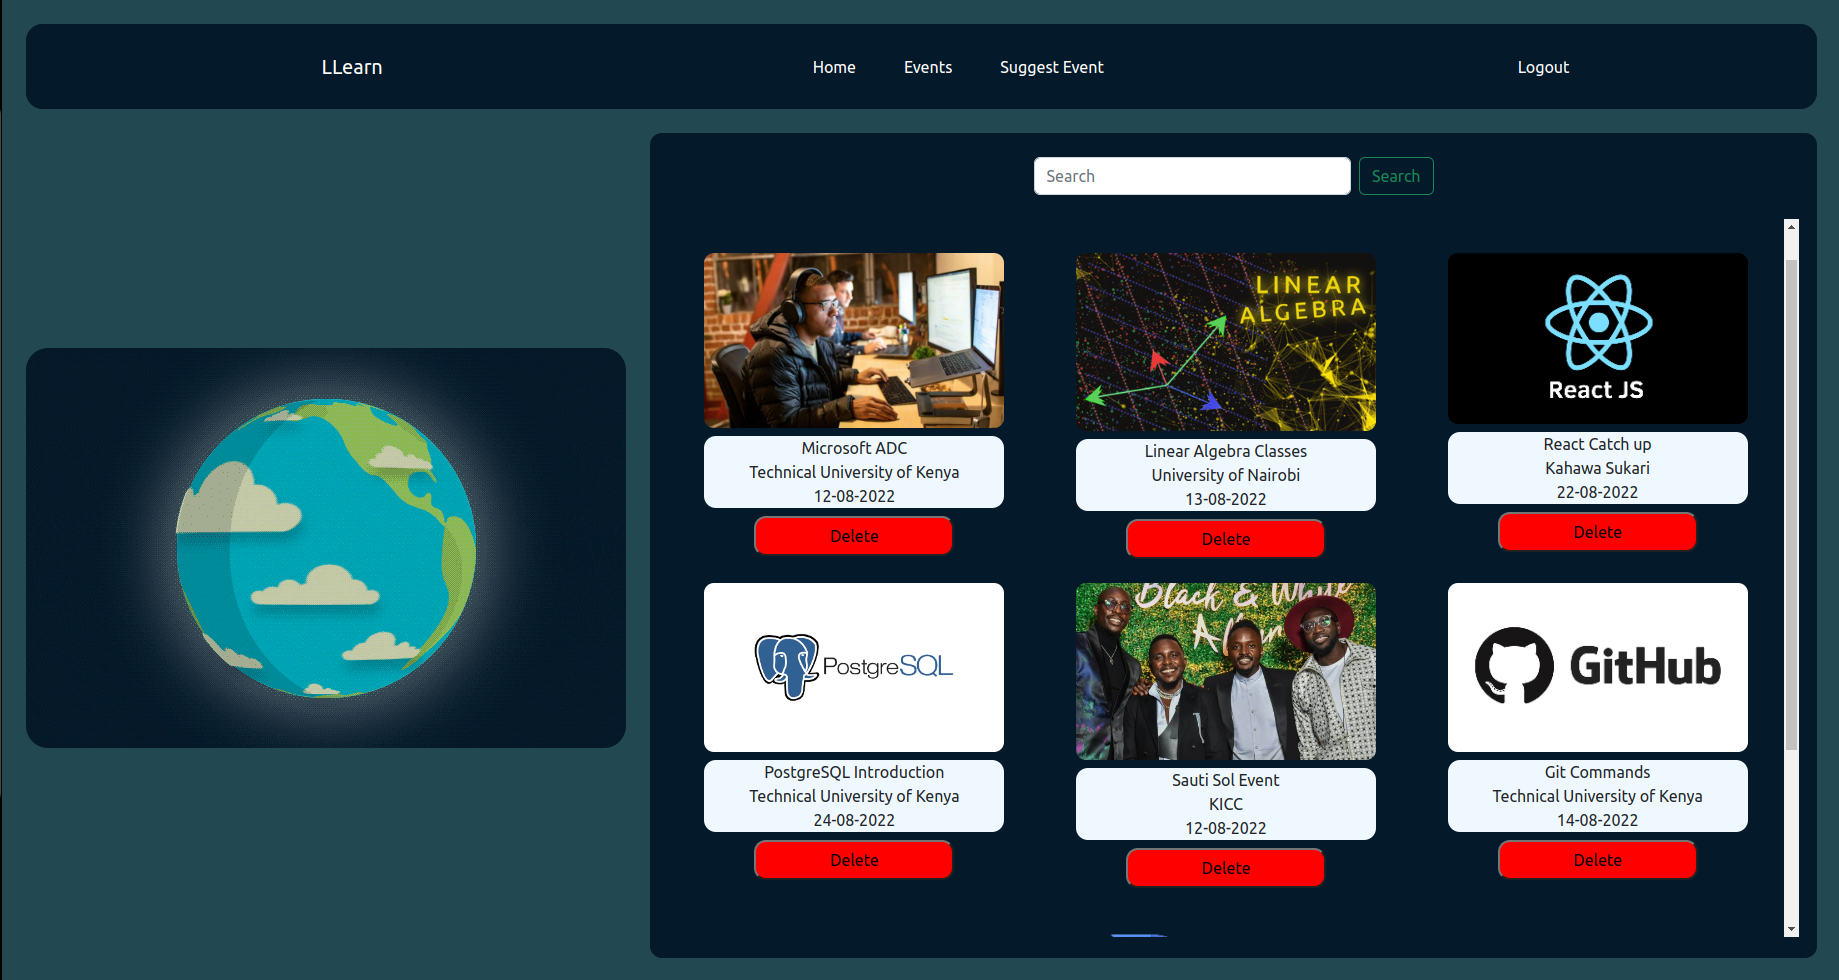
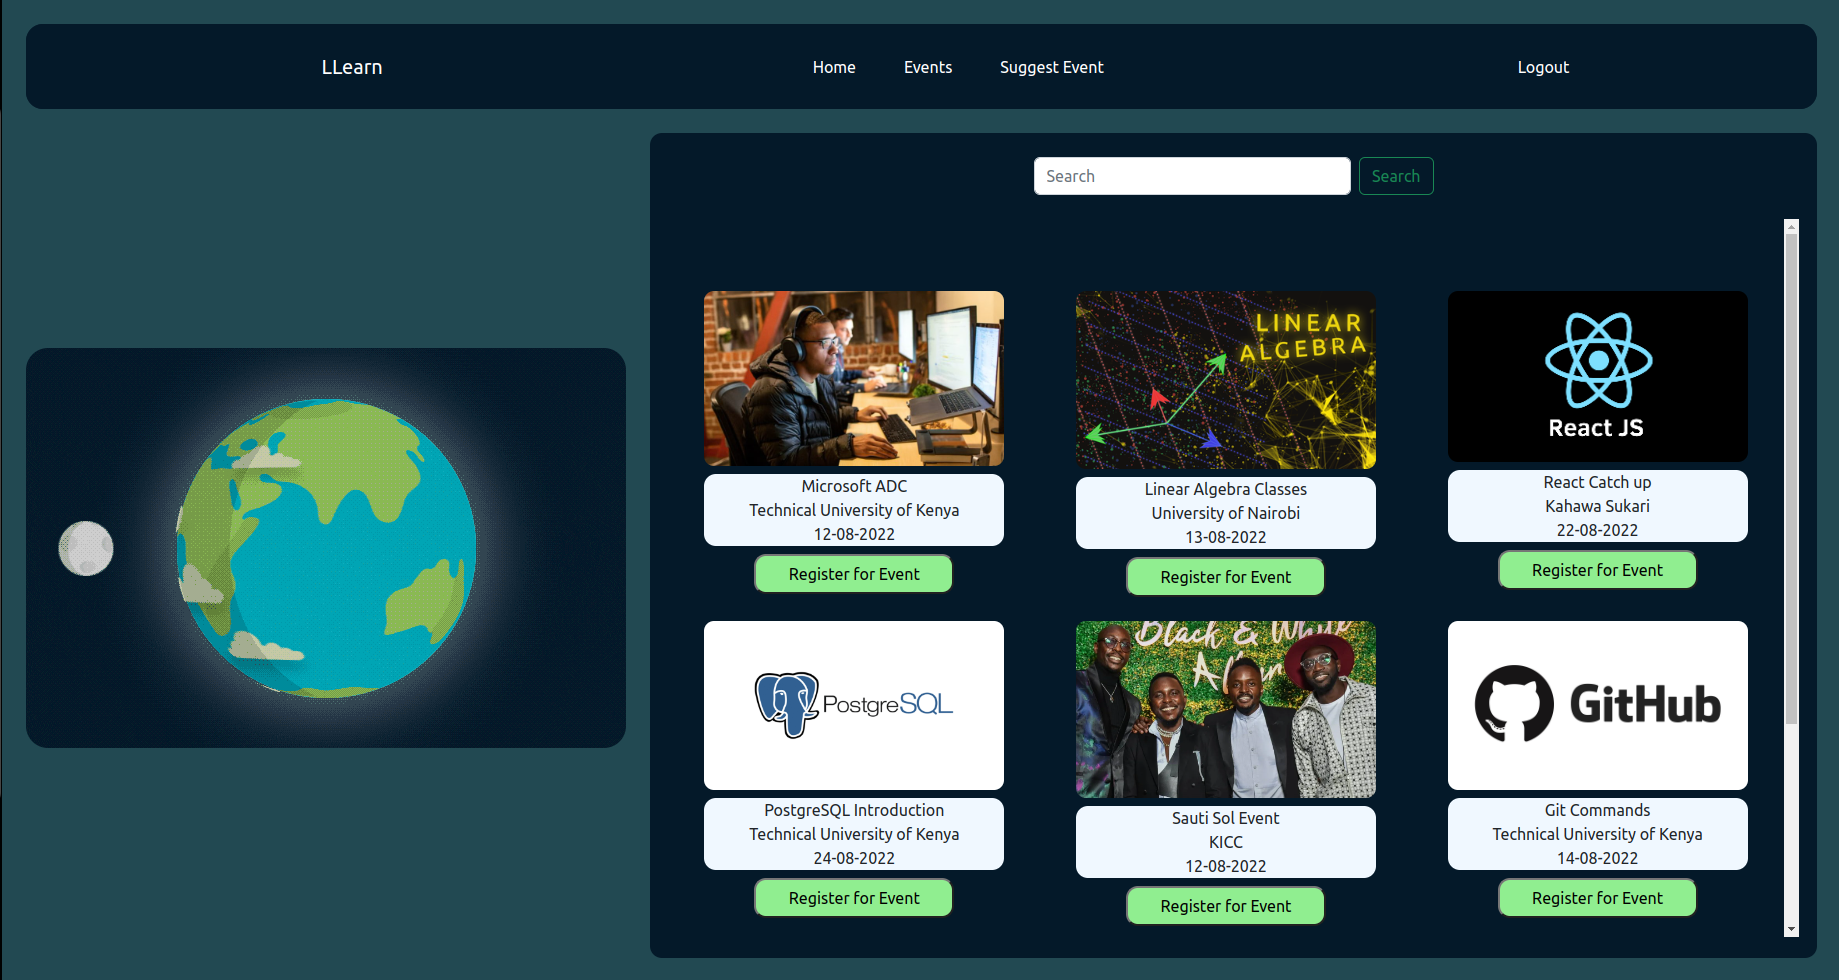
added some images to readme file and also removed delete button from home component

diff --git a/src/components/Home.js b/src/components/Home.js
@@ -2,9 +2,7 @@ import React, { useState } from "react";
 import rotatingGif from "../assets/rotating2.gif";
 import Search from "./Search";
 
-function Home({ events, onDeleteEvent }) {
-
-  const { id } = events
+function Home({ events }) {
 
   const [search, setSearch] = useState("")
 
@@ -16,13 +14,6 @@ function Home({ events, onDeleteEvent }) {
     let result = evt.name.toLowerCase().includes(search)
     return result
   })
-
-  function handleDelete() {
-    fetch(`http://localhost:3000/events/${id}`, {
-      method: "DELETE"
-    })
-    onDeleteEvent(id)
-  }
 
   return (
     <div className="main-div">
@@ -49,7 +40,7 @@ function Home({ events, onDeleteEvent }) {
                 <div className="event-date">
                   {event.date}
                 </div>
-                <button className="delete-button" onClick={handleDelete}>Delete</button>
+                <button className="delete-button">Register for Event</button>
               </div>
               {/* <div className="event-attendees">
 

diff --git a/src/App.js b/src/App.js
@@ -23,10 +23,6 @@ function App() {
     setEvents(updatedEvents)
   }
 
-  function deleteEvent(event) {
-    const updatedEvents = events.filter((evnt) => evnt.id !== event.id)
-    setEvents(updatedEvents)
-  }
 
   return (
     <Router>
@@ -34,7 +30,7 @@ function App() {
       <Routes>
         <Route path="/events" element={<Events events={events} onAddEvent={addEvent}/>} />
         <Route path="/suggest" element={<Suggest onAddEvent={addEvent}/> } />
-        <Route exact path="/" element={<Home events={events} onDeleteEvent={deleteEvent}/>} />
+        <Route exact path="/" element={<Home events={events} />} />
       </Routes>
     </Router>
   );

diff --git a/src/components/Events.js b/src/components/Events.js
@@ -1,13 +1,15 @@
 import React from "react";
 import Search from "./Search";
 
-function Events({events}) {
+function Events({ events }) {
 
   const listStyle = {
     cursor: "pointer",
     listStyle: "none",
     fontSize: "20px"
   }
+
+  
 
   return (
     <div className="main-div2">
@@ -45,7 +47,7 @@ function Events({events}) {
               type="number"
               placeholder="Phone Number"
               required
-            ></input>{" "}
+            ></input>
             <br />
             <input type="text" placeholder="Your Image" required></input> <br />
             <button type="submit">Register</button>

diff --git a/src/index.css b/src/index.css
@@ -255,7 +255,7 @@ button[type=submit] {
   width: 200px;
   height: 40px;
   margin-top: 0.5rem;
-  background-color: red;
+  background-color: lightgreen;
 }
 
 

diff --git a/README.md b/README.md
@@ -4,12 +4,13 @@
 
 ## Description
 
-Lets Learn(LLearn) is an online resgister that allows event organizers e.g lecturers or anyone else will to take up the role to simply create or suggest an event. Sharing the link to the event will allow users to register for the event. This allows the event organizer to keep track of who will be attending the event/meetup.
+Lets Learn(LLearn) is an online resgister that allows event organizers e.g lecturers or anyone else who wishes to take up the role to simply create or suggest an event. Sharing the link to the event will allow users to register for the event. This allows the event organizer to keep track of who will be attending the event/meetup.
 
 ## Screenshots
 The home page displays a list of all the events that the user has created for others to join or register for.
 
 <img src="./src/home.png">
+<img src="./src/suggest.png">
 
 
 
@@ -34,11 +35,19 @@ The database for the website was run and supported by JSON server. Run json-serv
 * React JS
 
 ## Design Tools
+I designed the site using pencil and paper. The designs are as below:
+
+<img src="eventandhome.png">
+<img src="suggestdesign.png">
+
 
 ## Known Bugs
 The project has no known Bugs
 
 ## Support and Contact Details
+In the case that the project becomes captivating to the user in that he/she may want to share ideas on how to improve it, please contact me using my github email:
+
+* aaronjoash44@gmail.com
 
 ## License
 This project and app have no license or any copyright. They are free for use by anyone as long the usage is legal.  
